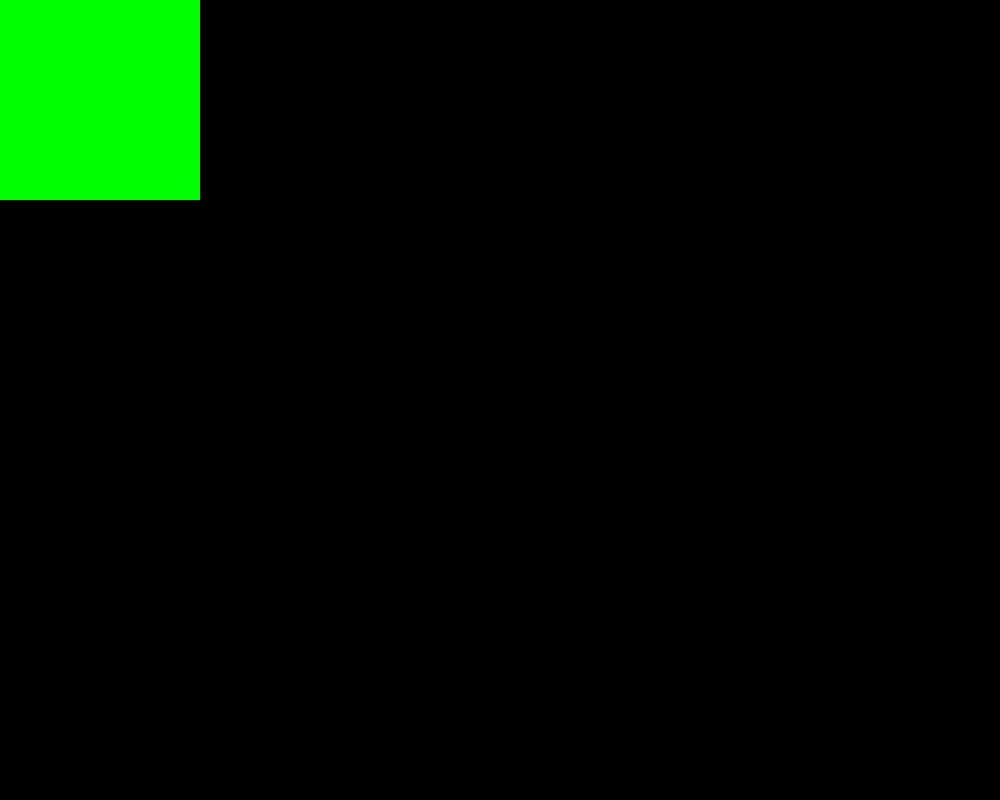
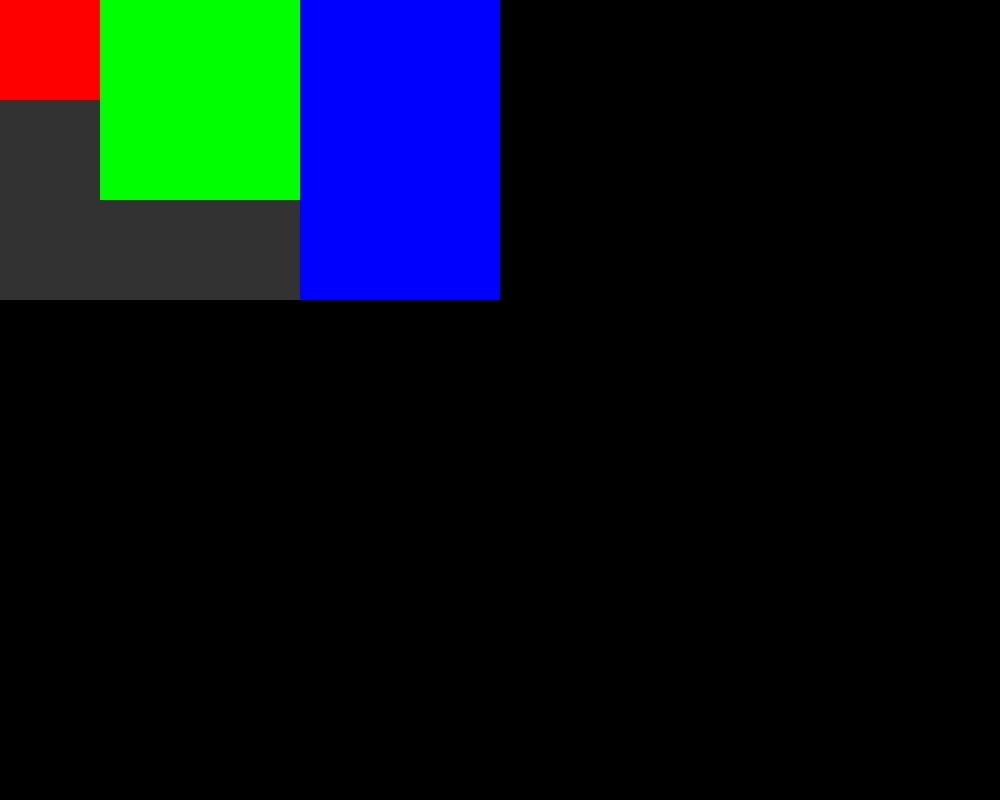
feat: 渲染图片

Changed region(s): [[0.0, 0.0, 0.527, 0.375]]

diff --git a/week3/layout.js b/week3/layout.js
@@ -26,7 +26,7 @@ function layout(element) {
         return
     }
     var items = element.children.filter(e => {
-        e.type === 'element'
+        return e.type === 'element'
     })
     items.sort((a, b) => {
         return (a.order || 0) - (b.order || 0)
@@ -57,7 +57,7 @@ function layout(element) {
 
     var mainSize, mainStart, mainEnd, mainSign, mainBase,
         crossSize, crossStart, crossEnd, crossSign, crossBase
-    if (style.flexDirection === 'row') {
+    if (style.flexDirection === 'row-reverse') {
         mainSize = 'width'
         mainStart = 'left'
         mainEnd = 'right'
@@ -69,7 +69,7 @@ function layout(element) {
         crossEnd = 'bottom'
     }
 
-    if (style.flexDirection === 'row-reverse') {
+    if (style.flexDirection === 'row') {
         mainSize = 'width'
         mainStart = 'right'
         mainEnd = 'left'
@@ -290,9 +290,7 @@ function layout(element) {
         step = 0
     }
     flexLines.forEach((items) => {
-        var lineCrossSize = style.alignContent === 'stretch' ?
-            items.crossSpace + crossSpace / flexLines.length :
-            items.crossSpace
+        var lineCrossSize = style.alignContent === 'stretch' ? items.crossSpace + crossSpace / flexLines.length : items.crossSpace
         for (var i = 0; i < items.length; i++) {
             var item = items[i]
             var itemStyle = getStyle(item)

diff --git a/week3/server.js b/week3/server.js
@@ -22,7 +22,7 @@ http.createServer((req, res) => {
     display: flex;
     width: 500px;
     height: 300px;
-    background-color:rgb(0,0,0);
+    background-color:rgb(50,50,50);
 }
 .box .header {
     width: 100px;
@@ -40,9 +40,9 @@ http.createServer((req, res) => {
 }
     </style>
     <div class="box">
-        <div class="header"></div>
-        <div class="content"></div>
         <div class="footer"></div>
+        <div class="content"></div>
+        <div class="header"></div>
     </div>
     <script></script>
 </body>

diff --git a/week3/render.js b/week3/render.js
@@ -11,10 +11,8 @@ function render(viewport, element) {
             viewport.draw(img, element.style.left||0, element.style.top||0)
         }
     }
-
     if (element.children) {
         for (var child of element.children) {
-            console.log(child, 'child')
             render(viewport, child)
         }
     }

diff --git a/index.html b/index.html
@@ -8,7 +8,7 @@
     display: flex;
     width: 500px;
     height: 300px;
-    background-color:rgb(0,0,0);
+    background-color:rgb(50,50,50);
 }
 .box .header {
     width: 100px;
